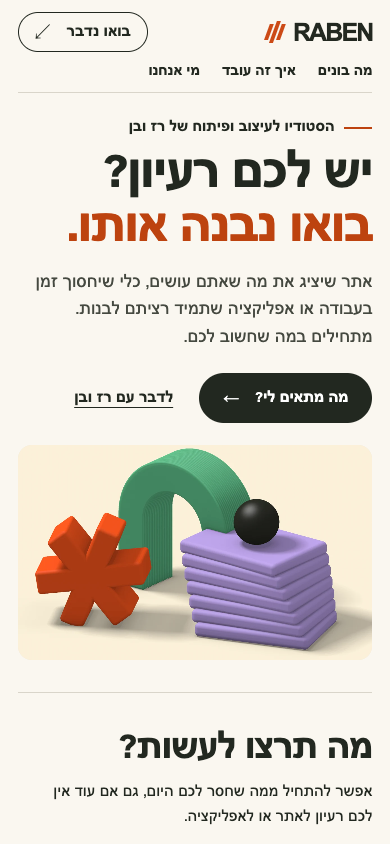
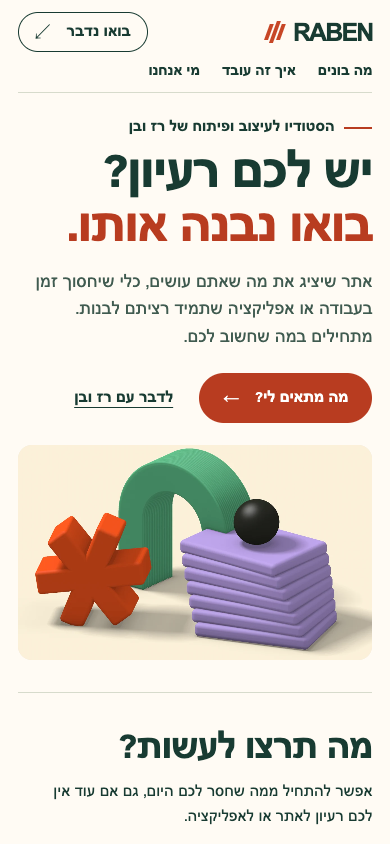
Refine studio palette with forest green and terracotta accents

Changed region(s): [[0.4923, 0.4313, 0.9538, 0.5237], [0.8308, 0.2464, 0.8615, 0.2773], [0.3385, 0.2464, 0.3692, 0.2773]]

diff --git a/dist/journey.css b/dist/journey.css
@@ -1,5 +1,5 @@
 .journey-block {
-  color: #242922;
+  color: #183b32;
   padding-block: clamp(3.5rem, 7vw, 7rem);
 }
 .journey-shell {
@@ -32,7 +32,7 @@
   height: 2px;
   background: currentColor;
 }
-.journey-about { background: #e1d8f1; }
+.journey-about { background: #e6e1f6; }
 .journey-about-layout,
 .journey-faq-layout,
 .journey-contact-layout {
@@ -57,14 +57,14 @@
   display: flex;
   gap: 1rem;
   padding-block: 1.2rem;
-  border-top: 1px solid #a99fb5;
+  border-top: 1px solid #9d94ad;
 }
 .journey-process li::before {
   content: counter(step, decimal-leading-zero);
   min-width: 2.3rem;
   height: 2.3rem;
   border-radius: 50%;
-  border: 1px solid #a99fb5;
+  border: 1px solid #9d94ad;
   display: grid;
   place-items: center;
   font: 600 .88rem/1 Arial, sans-serif;
@@ -92,9 +92,9 @@
 }
 .journey-answers details[open] summary::after { content: '−'; }
 .journey-answers p { margin: 0 0 1.2rem; }
-.journey-contact { background: #252a24; color: #faf7f0; }
-.journey-contact .journey-intro h2 { color: #ffc8a4; }
-.journey-contact .journey-intro p { color: #eee9df; }
+.journey-contact { background: #123f36; color: #fffbf4; }
+.journey-contact .journey-intro h2 { color: #ffd6ad; }
+.journey-contact .journey-intro p { color: #e8f1e4; }
 .journey-social {
   display: inline-flex;
   align-items: center;
@@ -108,8 +108,8 @@
 .journey-form {
   padding: clamp(1.2rem, 3vw, 2.25rem);
   border-radius: 1.25rem;
-  background: #faf7f0;
-  color: #242922;
+  background: #fffbf4;
+  color: #183b32;
 }
 .journey-form fieldset { border: 0; margin: 0; padding: 0; min-width: 0; }
 .journey-fields {
@@ -126,9 +126,9 @@
   display: block;
   width: 100%;
   min-height: 46px;
-  border: 1px solid #929388;
-  color: #242922;
-  background-color: #fffef9;
+  border: 1px solid #76867c;
+  color: #183b32;
+  background-color: #ffffff;
   border-radius: .5rem;
   padding: .65rem .8rem;
   margin: 0 0 1.1rem;
@@ -142,7 +142,7 @@
   gap: 1.5rem;
   border: 0;
   border-radius: 2rem;
-  background: #252a24;
+  background: var(--orange);
   color: #fff;
   min-height: 48px;
   padding: .7rem 1.35rem;
@@ -150,16 +150,16 @@
   font-weight: 650;
   cursor: pointer;
 }
-.journey-form button:hover { background: #404a3f; }
+.journey-form button:hover { background: #94311d; }
 .journey-form fieldset:disabled { opacity: .7; }
 .journey-form .journey-form-note,
-#instagram-copy-status { font-size: .92rem; line-height: 1.5; margin-block: .25rem 1rem; color: #50554b; }
+#instagram-copy-status { font-size: .92rem; line-height: 1.5; margin-block: .25rem 1rem; color: #475e54; }
 #form-status:not(:empty),
 #contact-fallback:not([hidden]) { margin-block-start: 1rem; }
-#form-status:not(:empty) { padding: .85rem 1rem; border-radius: .6rem; background: #e6eadb; }
+#form-status:not(:empty) { padding: .85rem 1rem; border-radius: .6rem; background: #e1eee2; }
 #contact-fallback .journey-social { margin: 0; }
-.journey-block :focus-visible { outline: 3px solid #5450a6; outline-offset: 3px; }
-.journey-contact .journey-intro a:focus-visible { outline-color: #ffc8a4; }
+.journey-block :focus-visible { outline: 3px solid #54419b; outline-offset: 3px; }
+.journey-contact .journey-intro a:focus-visible { outline-color: #ffd6ad; }
 .journey-sr {
   position: absolute;
   width: 1px;

diff --git a/dist/styles.css b/dist/styles.css
@@ -1,8 +1,8 @@
 :root {
-  --paper: #faf7f0;
-  --ink: #222820;
-  --orange: #bd430f;
-  --rule: #d9d5ca;
+  --paper: #fffbf4;
+  --ink: #183b32;
+  --orange: #b83c20;
+  --rule: #d7dbcc;
   color-scheme: light;
   scroll-behavior: smooth;
   font-family: "Arial Hebrew", Arial, sans-serif;
@@ -17,7 +17,7 @@ button, input, textarea, select { font: inherit; }
 button, summary, select { cursor: pointer; }
 img { max-width: 100%; }
 [hidden] { display: none !important; }
-:focus-visible { outline: 3px solid #2854ac; outline-offset: 4px; }
+:focus-visible { outline: 3px solid #54419b; outline-offset: 4px; }
 section[id] { scroll-margin-block-start: 24px; }
 .shell { width: min(1320px, 91%); margin-inline: auto; }
 .skip-link { position: absolute; inset-inline-start: 1rem; top: -8rem; background: white; padding: 1rem; z-index: 10; }
@@ -25,7 +25,7 @@ section[id] { scroll-margin-block-start: 24px; }
 .masthead { display: flex; justify-content: space-between; align-items: center; gap: 1.25rem; min-height: 83px; border-bottom: 1px solid var(--rule); }
 .brand { display: inline-flex; align-items: center; gap: .27em; font: 900 clamp(25px,2.4vw,37px)/1 Arial,sans-serif; letter-spacing: -.075em; text-decoration: none; }
 .brand-emblem { display: inline-flex; align-items: center; gap: 2px; transform: skew(-20deg); padding: 0 3px; }
-.brand-emblem i { width: .16em; height: .62em; background: #cc4a16; }
+.brand-emblem i { width: .16em; height: .62em; background: #c74626; }
 .brand-emblem i:nth-child(2) { height: .86em; }
 .masthead nav { display: flex; flex-wrap: wrap; justify-content: center; gap: clamp(16px,3vw,48px); }
 .masthead nav a, .header-contact, .intro-actions a, .endbar a { text-decoration: none; font-weight: 700; }
@@ -40,10 +40,10 @@ section[id] { scroll-margin-block-start: 24px; }
 .studio-line span { width: 28px; height: 2px; background: var(--orange); }
 .intro h1 { font-size: clamp(54px,6.35vw,102px); line-height: 1.03; letter-spacing: -.026em; margin-block: .27em .24em; }
 .intro h1 em { font-style: normal; color: var(--orange); }
-.intro-text { font-size: clamp(18px,1.45vw,23px); line-height: 1.55; max-width: 35ch; color: #454940; }
+.intro-text { font-size: clamp(18px,1.45vw,23px); line-height: 1.55; max-width: 35ch; color: #405b50; }
 .intro-actions { display: flex; align-items: center; flex-wrap: wrap; gap: 26px; margin-block-start: clamp(20px,2.1vw,34px); }
-.solid-link { background: var(--ink); color: white; min-height: 50px; }
-.solid-link:hover { background: #484e40; }
+.solid-link { background: var(--orange); color: white; min-height: 50px; }
+.solid-link:hover { background: #94311d; }
 .intro-actions .quiet-link { text-decoration: underline; text-underline-offset: 5px; padding-block: 12px; }
 .studio-art { aspect-ratio: 1.35; overflow: hidden; background: #efe8da; border-radius: 20px; }
 .studio-art img { display: block; width: 100%; height: 100%; object-fit: cover; }

diff --git a/dist/services.css b/dist/services.css
@@ -27,7 +27,7 @@
 
 .service-option {
   min-width: 0;
-  color: #202521;
+  color: #183b32;
   scroll-margin-block-start: 6rem;
 }
 
@@ -41,16 +41,16 @@
   user-select: none;
 }
 
-.art-website { background: #f4b29e; }
-.art-tool { background: #bbd8c6; }
-.art-product { background: #cfc3e3; }
+.art-website { background: #ffc3a7; }
+.art-tool { background: #a9d9c0; }
+.art-product { background: #cfc2f1; }
 
 .sample-site,
 .sample-tasks,
 .sample-phone {
   position: relative;
   box-sizing: border-box;
-  color: #282a26;
+  color: #233a31;
   background: #fff9ef;
   border: 1.5px solid currentColor;
 }
@@ -58,7 +58,7 @@
 .sample-site {
   width: min(72%, 14.5rem);
   border-radius: .5rem;
-  box-shadow: -.35rem .45rem 0 #9c5c50;
+  box-shadow: -.35rem .45rem 0 #a95940;
   transform: rotate(-5deg);
   overflow: hidden;
 }
@@ -111,7 +111,7 @@
   width: min(70%, 13rem);
   padding: .8rem 1rem;
   border-radius: .75rem;
-  box-shadow: .32rem .35rem 0 #8aaa99, .37rem .4rem 0 #334e40;
+  box-shadow: .32rem .35rem 0 #74a88a, .37rem .4rem 0 #334e40;
   transform: rotate(4deg);
 }
 
@@ -135,7 +135,7 @@
   padding: .52rem .65rem .85rem;
   border: 3px solid #302e34;
   border-radius: 1.2rem;
-  box-shadow: .3rem .3rem 0 #88779b;
+  box-shadow: .3rem .3rem 0 #917bac;
   transform: rotate(-7deg);
 }
 

diff --git a/dist/index.html b/dist/index.html
@@ -3,7 +3,7 @@
 <head>
   <meta charset="utf-8">
   <meta name="viewport" content="width=device-width, initial-scale=1">
-  <meta name="theme-color" content="#faf7f0">
+  <meta name="theme-color" content="#fffbf4">
   <meta name="description" content="רז ובן בונים אתרים, כלים ומוצרים דיגיטליים. יש לכם עסק, יוזמה או משימה שגוזלת זמן? בואו לראות איך אפשר לעזור.">
   <meta property="og:title" content="RABEN | הסטודיו לעיצוב ופיתוח של רז ובן">
   <meta property="og:description" content="אתר שיציג אתכם, כלי שיקל על העבודה או גרסה ראשונה לרעיון שלכם.">
